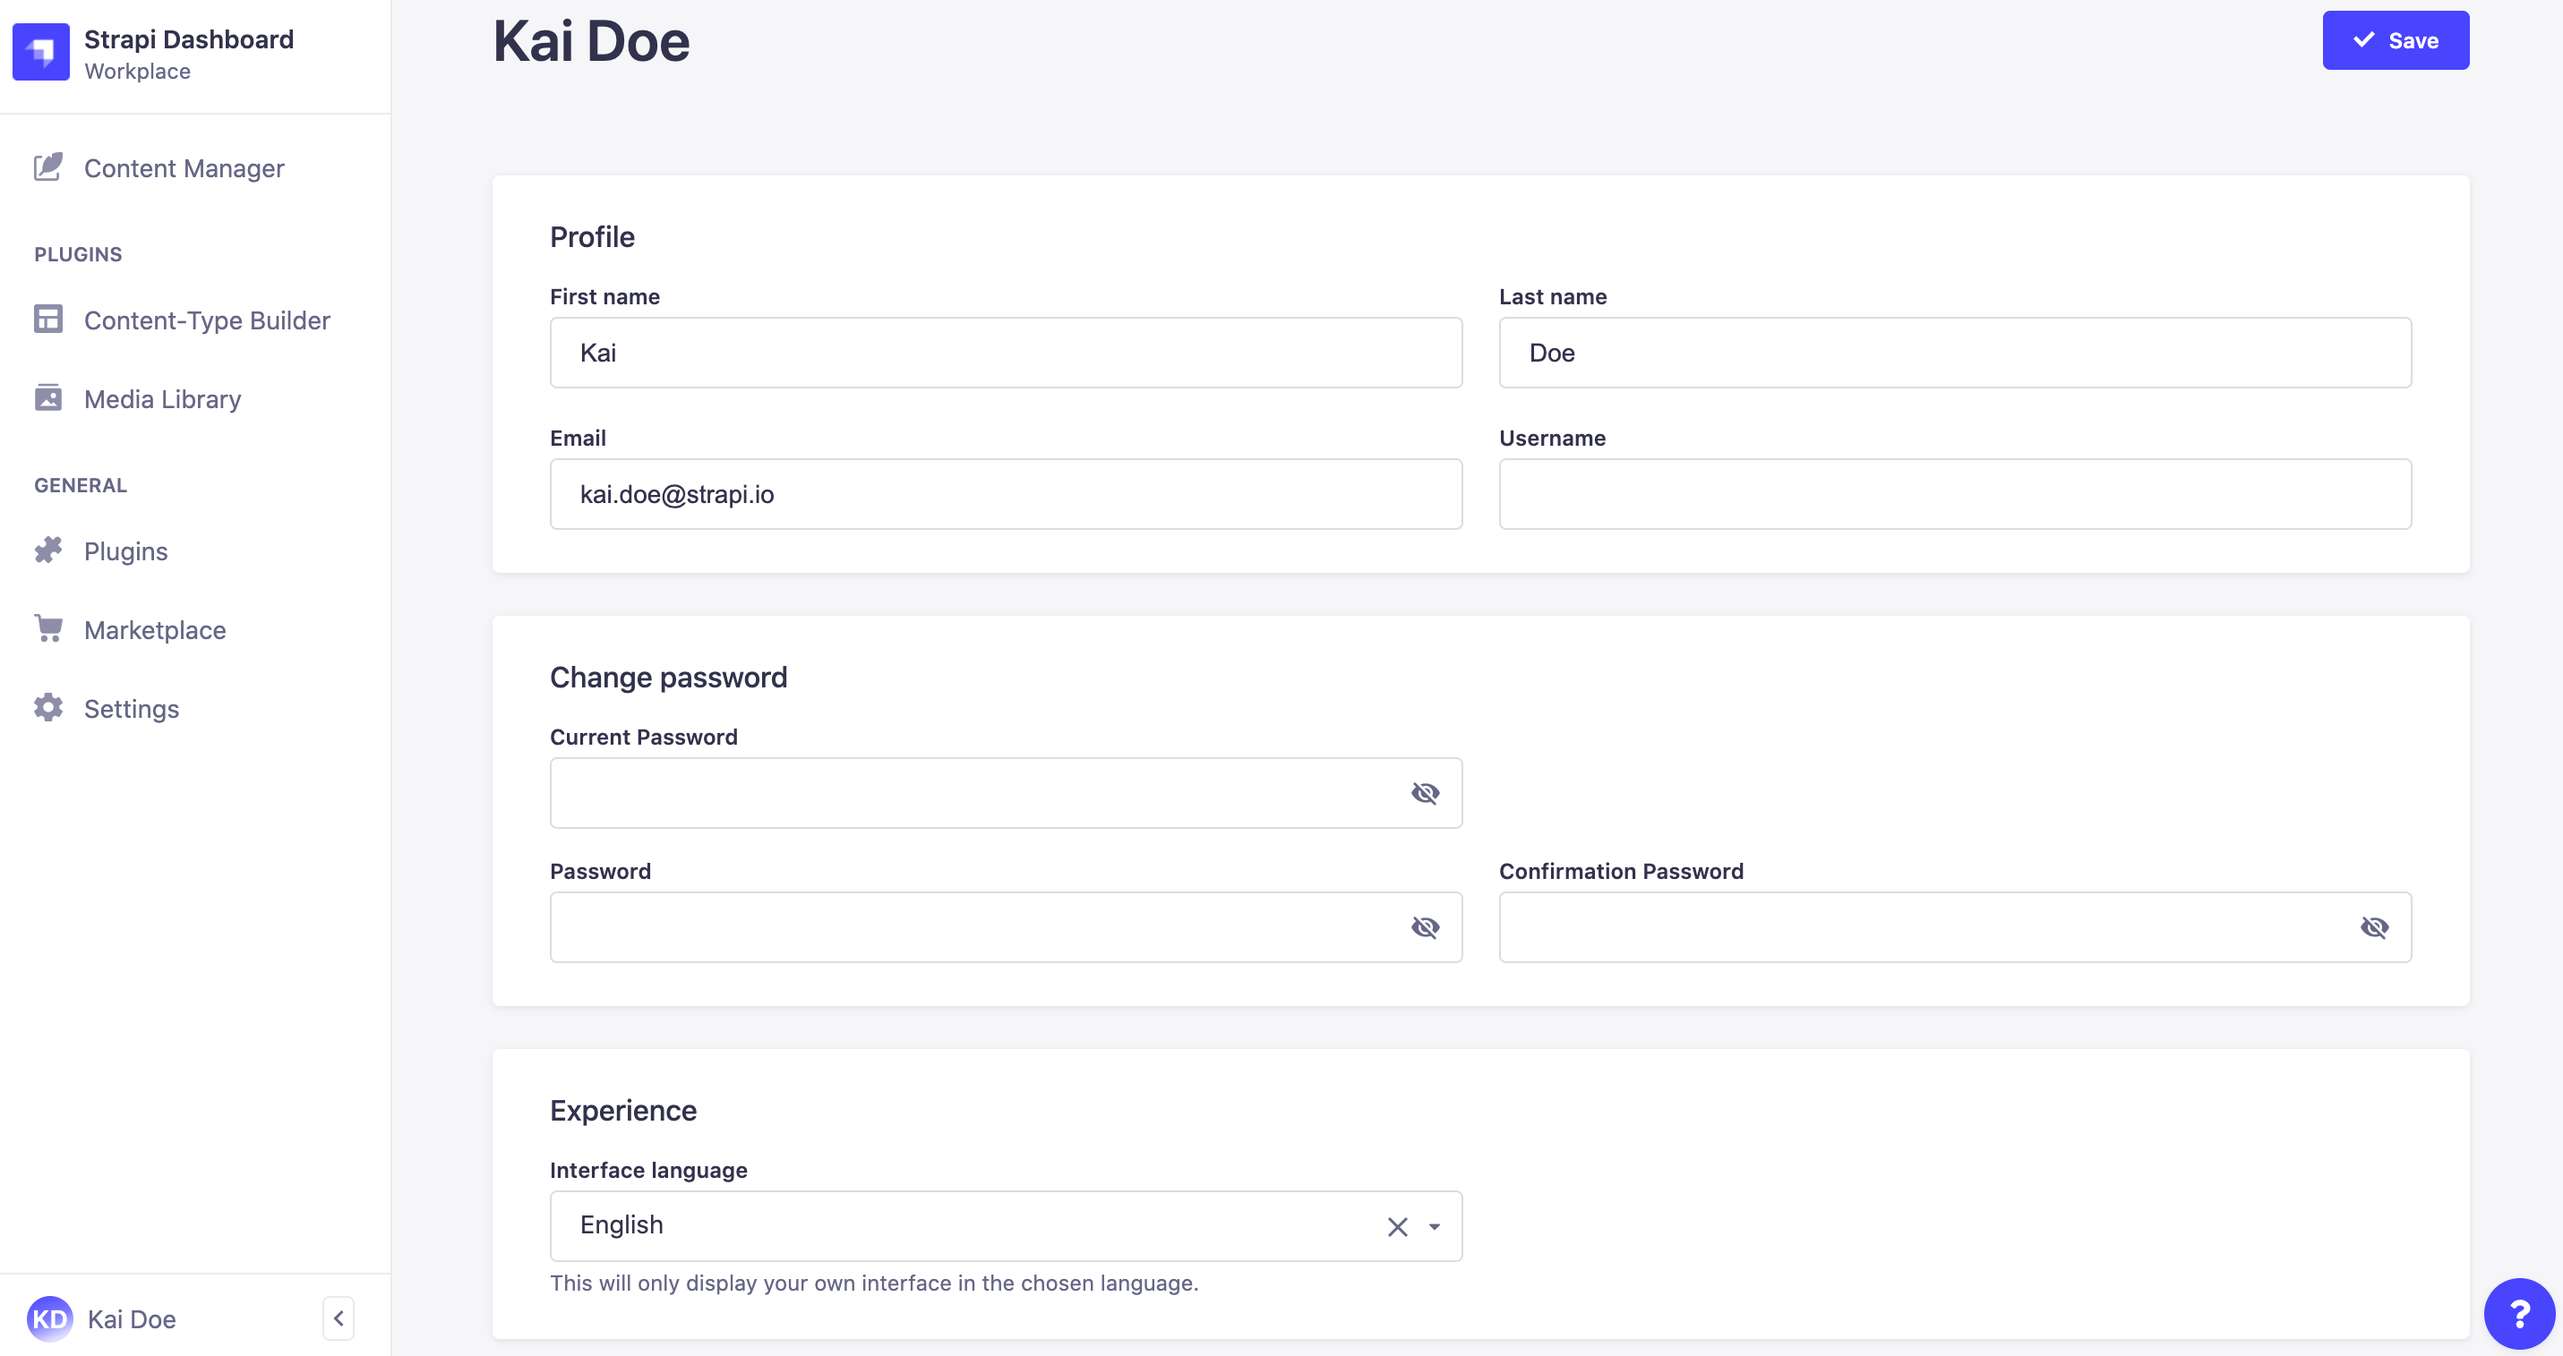
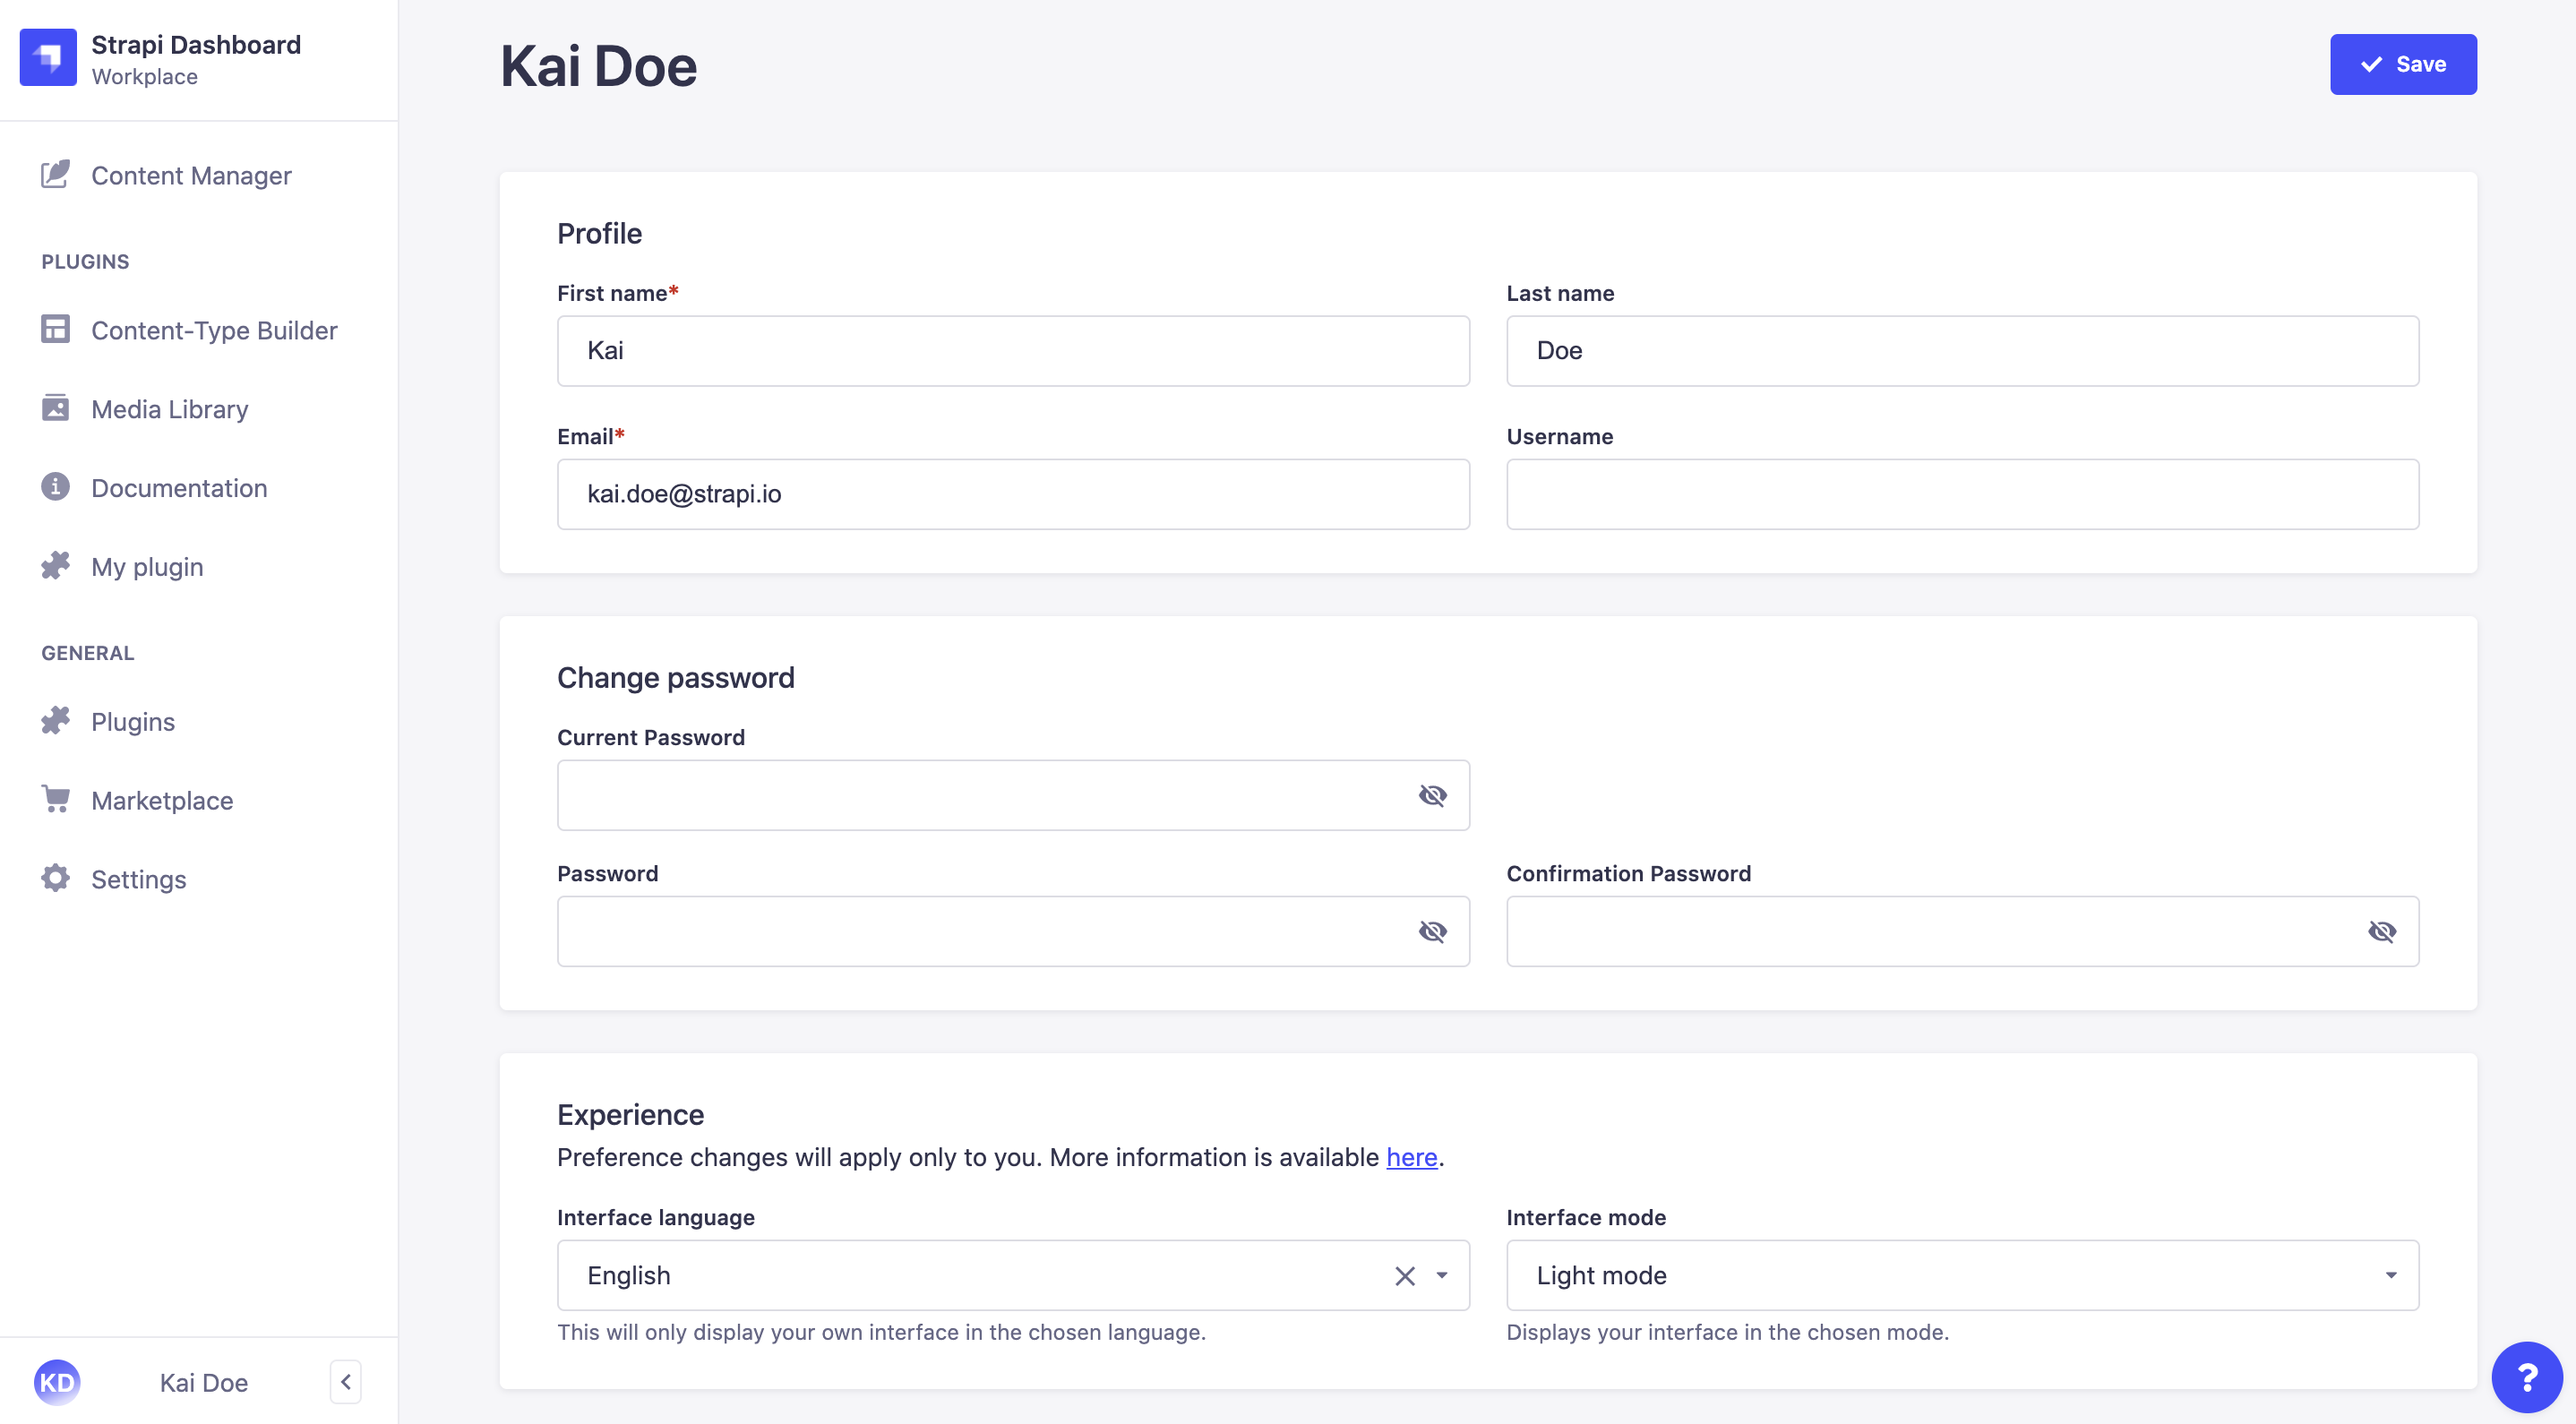
[beta] Dark mode: Updates user guide + dev docs (#795)
* Document dark mode in user guide

* Add note in dev docs about custom theme extension and dark mode

* Improve instructions for Interface mode setting in User guide

* Add precisions in Dev docs callout for Dark mode

* Update admin profile screenshot

diff --git a/docs/developer-docs/latest/development/admin-customization.md b/docs/developer-docs/latest/development/admin-customization.md
@@ -241,6 +241,10 @@ To extend the theme, use the `config.theme` key.
 The default [Strapi theme](https://github.com/strapi/design-system/tree/main/packages/strapi-design-system/src/themes) defines various theme-related keys (shadows, colors…) that can be updated through the `config.theme` key in `./admin/src/app.js`. The [Strapi Design System](https://design-system.strapi.io/) is fully customizable.
 :::
 
+::: note
+Strapi applications can be displayed either in Light or Dark mode (see [administrator profile setup in the User Guide](/user-docs/latest/getting-started/introduction.md#setting-up-your-administrator-profile)), however custom theme extension is only applied for Light mode. When choosing Dark mode for a Strapi application, theme customisations are ignored.
+:::
+
 ### WYSIWYG editor
 
 To change the current WYSIWYG, you can install a [third-party plugin](https://market.strapi.io/), create your own plugin (see [creating a new field in the admin panel](/developer-docs/latest/guides/registering-a-field-in-admin.md)) or take advantage of the [bootstrap lifecycle](/developer-docs/latest/developer-resources/plugin-api-reference/admin-panel.md#bootstrap) and the [extensions](#extension) system:

diff --git a/docs/user-docs/latest/getting-started/introduction.md b/docs/user-docs/latest/getting-started/introduction.md
@@ -64,6 +64,7 @@ To modify your user information:
 | Email                 | Write your complete email address in the textbox.                                                       |
 | Username              | (optional) Write a username in the textbox.                                                             |
 | Interface language    | Among the drop-down list, choose a language for your Strapi application interface.                      |
+| Interface mode        | Among the drop-down list, choose a mode for your Strapi application interface: either "Light mode" or "Dark mode". Note that by default, the chosen mode for a Strapi application is based on the browser's mode. |
 
 4. Click on the **Save** button.
 
